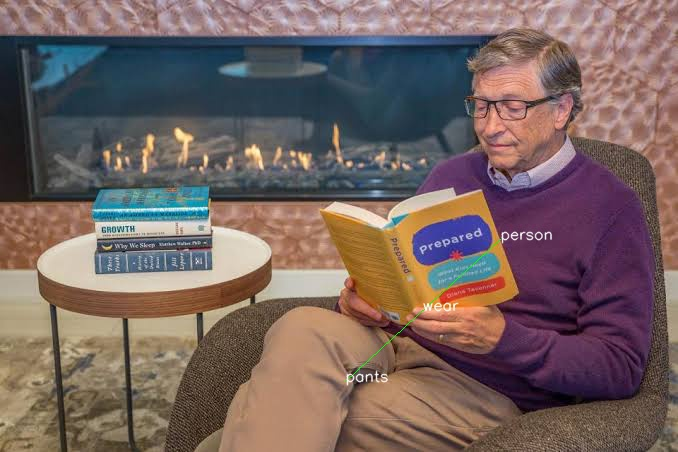
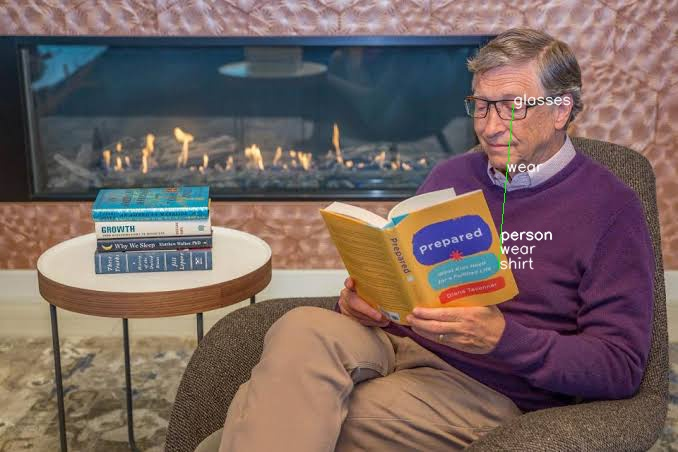
updated

diff --git a/predict.py b/predict.py
@@ -80,7 +80,7 @@ def main():
 
 
 	# load pretrained weights
-	checkpoint = torch.load('/Users/pranoyr/Desktop/model20.pth', map_location='cpu')
+	checkpoint = torch.load('/Users/pranoyr/Desktop/model26.pth', map_location='cpu')
 	model.load_state_dict(checkpoint['model_state_dict'])
 	print("Model Restored")
 
@@ -169,7 +169,7 @@ def main():
 
 			# apply mask for thresholding
 			# mask = scores > 0.2
-			mask = scores > 0.99
+			mask = scores > 0.5
 			preds = preds[mask]
 			scores = scores[mask]
 

diff --git a/training.py b/training.py
@@ -67,9 +67,9 @@ def train(model, loader, criterion, optimizer, epoch, device, opt):
                 epoch, losses.count, len(loader.dataset), 100. * (i + 1) / len(loader), avg_loss))
             train_loss = 0.0
 
-            # print(targets_predicates)
-            # scores, indices = torch.max(predicates, dim=1)
-            # print(indices)
+            print(targets_predicates)
+            scores, indices = torch.max(predicates, dim=1)
+            print(indices)
 
 
     # show information
